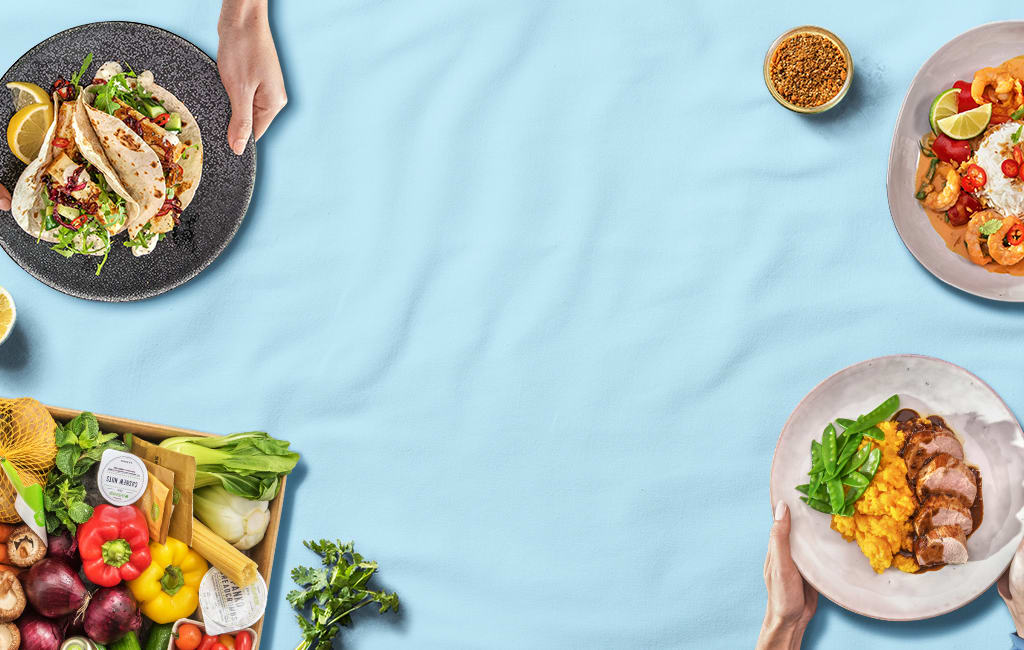
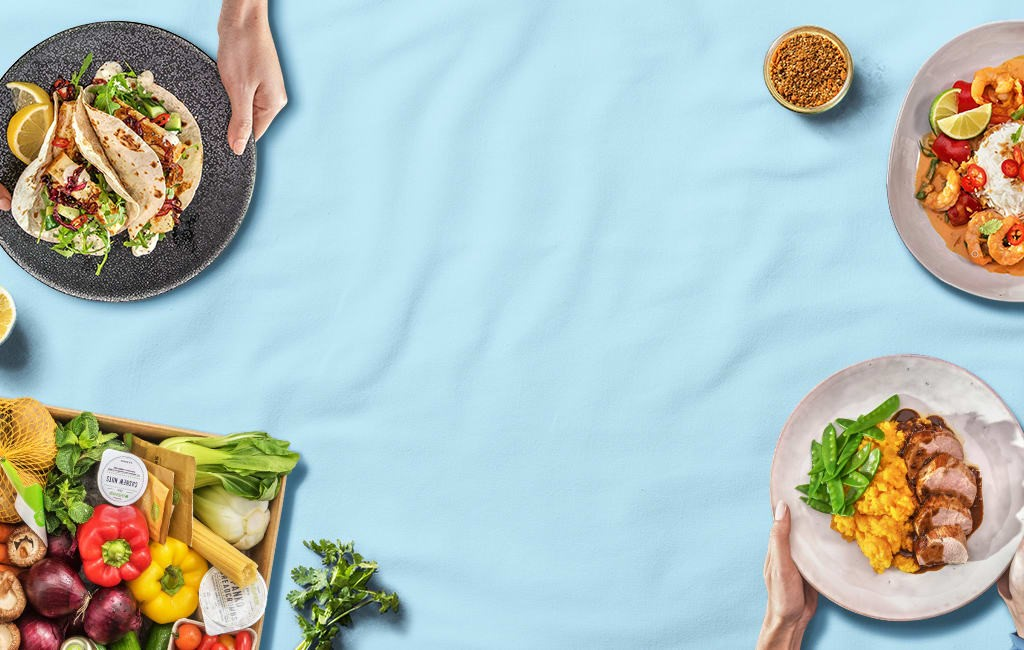
change file type to png

diff --git a/css/home.css b/css/home.css
@@ -123,7 +123,7 @@
 
 @media screen and (max-width: 1024px) {
   header {
-    background-image: url("../img/home/hero1199x650.jpg");
+    background-image: url("../img/home/hero1199x650.png");
     min-height: 650px;
   }
   #collapse-link1 {

diff --git a/scss/_media.scss b/scss/_media.scss
@@ -156,7 +156,7 @@
 @media screen and (max-width: 1024px) {
 
     header {
-        background-image: url("../img/home/hero1199x650.jpg");
+        background-image: url("../img/home/hero1199x650.png");
         min-height: 650px;
     }
 
